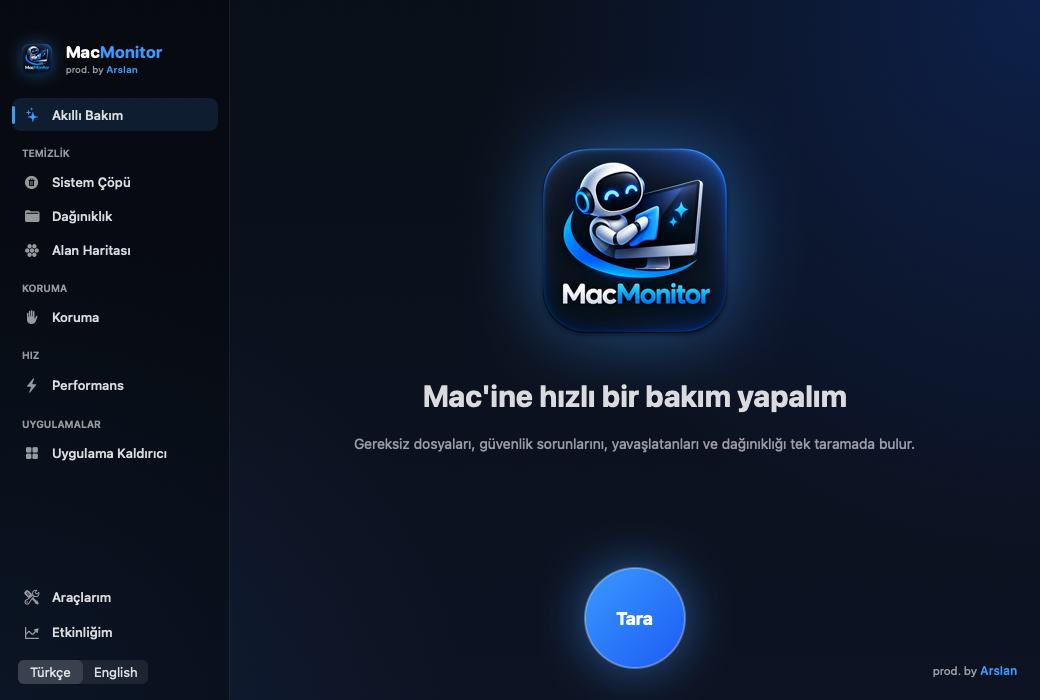
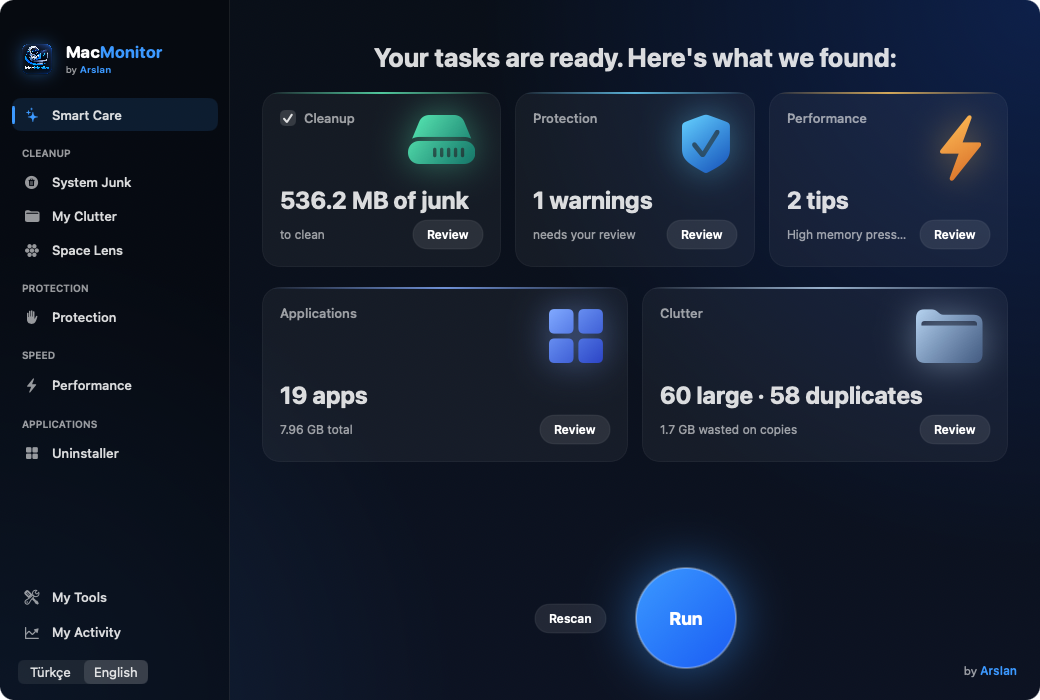
README: English rewrite and new 2.4 screenshots

diff --git a/README.md b/README.md
@@ -1,100 +1,134 @@
 <p align="center">
-  <img src="docs/icon.png" width="160" alt="MacMonitor">
+  <img src="docs/icon.png" width="160" alt="MacMonitor icon">
 </p>
 
 <h1 align="center">MacMonitor</h1>
 
 <p align="center">
-  Menü çubuğunda yaşayan, hafif ve güvenli bir Mac bakım uygulaması.<br>
-  <i>A lightweight, privacy-first Mac care app that lives in your menu bar.</i><br><br>
+  A lightweight, privacy-first Mac care app that lives in your menu bar.<br>
   <b>by Arslan</b>
 </p>
 
 <p align="center">
-  <img src="docs/screenshot.png" width="820" alt="MacMonitor ekran görüntüsü">
+  <img alt="Version 2.4" src="https://img.shields.io/badge/version-2.4-3b82f6">
+  <img alt="macOS 13+" src="https://img.shields.io/badge/macOS-13%2B-111827?logo=apple">
+  <img alt="Apple Silicon and Intel" src="https://img.shields.io/badge/Apple%20Silicon%20%7C%20Intel-supported-10b981">
+  <img alt="No telemetry" src="https://img.shields.io/badge/telemetry-none-10b981">
+</p>
+
+<p align="center">
+  <img src="docs/screenshot.png" width="820" alt="MacMonitor Smart Care results">
 </p>
 
 ---
 
-## Özellikler
+## What's new in 2.4
 
-**Menü çubuğu paneli**
-- Mac sağlığı özeti, CPU / RAM / disk / ağ anlık durumu
-- Her karta tıklayınca ayrıntı: disk dağılımı ve SMART durumu, CPU grafiği, bellek halkası, ağ grafikleri, hız testi, pil (dizüstülerde)
-- En çok RAM ve CPU kullanan uygulamalar, onaylı **Kapat** düğmesi
-- Bugünün önerisi, Bluetooth cihazları ve pil seviyeleri
+- **Project Leftovers.** Finds rebuildable folders in old projects, such as `node_modules`, `venv`, Rust `target` and `.next`, and frees the space safely.
+- **Safety check before every removal.** Every path is verified against a protected list before anything is moved or deleted.
+- **Disk-full forecast.** Uses the last 90 days of disk usage to estimate when your disk will be full.
 
-**Ana pencere**
-| Bölüm | Ne yapar |
+## Features
+
+### Menu bar panel
+
+<img src="docs/screenshots/panel.png" width="300" align="right" alt="MacMonitor menu bar panel">
+
+- Mac health summary with live CPU, memory, disk and network stats
+- Tap any card for details: disk breakdown and SMART status, CPU graph, memory ring, network graphs, speed test, battery on laptops
+- Top memory and CPU consumers, with a **Quit** button that asks before closing
+- Today's recommendation, Bluetooth devices and their battery levels
+- Disk alerts at 80% and 90% full
+
+<br clear="right">
+
+### Main window
+
+| Section | What it does |
 |---|---|
-| Akıllı Bakım | Tek taramada temizlik, koruma, performans, uygulamalar ve dağınıklık özeti |
-| Sistem Çöpü | Uygulama ve tarayıcı önbellekleri, günlükler, 50+ geliştirici önbelleği (npm, pnpm, pip, uv, Cargo, Gradle, Xcode, VS Code…) risk etiketi ve açıklamasıyla, kurulum dosyaları, Mail ekleri, Çöp Kutusu. Öğeler tek tek seçilebilir |
-| Dağınıklık | 100 MB üstü ve 6 aydır açılmamış dosyalar, birebir aynı (kopya) dosyalar |
-| Alan Haritası | Klasörleri boyuta göre gösterir, içine girerek gezinilir |
-| Koruma | SIP, Gatekeeper, FileVault, Güvenlik Duvarı, XProtect; başlangıç öğeleri ve uygulamaların imza kontrolü (kırık/imzasız yazılımları yakalar) |
-| Performans | Bellek ayrıntısı, RAM boşaltma, DNS önbelleği, Spotlight onarımı |
-| Uygulama Kaldırıcı | Uygulamayı Kitaplık'taki artıklarıyla birlikte kaldırır |
-| Araçlarım | **Proje artıkları** (eski projelerdeki node_modules, venv, Rust target, .next…), uygulama artıkları, Time Machine yerel anlık görüntüleri, uygulama izinleri |
-| Etkinliğim | Kalıcı açılan yer ve Çöp Kutusu'na taşınan ayrı ayrı, disk dolma tahmini, öneriler |
+| **Smart Care** | One scan that summarizes cleanup, protection, performance, apps and clutter |
+| **System Junk** | App and browser caches, logs, 50+ developer caches (npm, pnpm, pip, uv, Cargo, Gradle, Xcode, VS Code…) with risk labels and explanations, installers, Mail attachments and the Trash. Each item can be selected on its own |
+| **My Clutter** | Files over 100 MB that haven't been opened in 6 months, and exact duplicate files |
+| **Space Lens** | Shows folders by size, and you can click into them to explore |
+| **Protection** | SIP, Gatekeeper, FileVault, Firewall and XProtect status, plus signature checks for launch items and apps that catch cracked or unsigned software |
+| **Performance** | Memory details, free up RAM, flush DNS cache, repair Spotlight |
+| **Uninstaller** | Removes an app together with its leftovers in Library |
+| **My Tools** | **Project Leftovers**, app leftovers, Time Machine local snapshots, app permissions |
+| **My Activity** | Space freed permanently and space moved to the Trash, disk-full forecast and recommendations |
 
-Disk %80 ve %90 dolduğunda bildirim, son 90 günün doluluğuna göre "disk ~N gün sonra dolar" tahmini.
-Türkçe ve İngilizce arayüz, açılışta otomatik başlatma. Panel kapalıyken sadece menü çubuğundaki değerleri ölçer (~%0,5 işlemci).
+Turkish and English interface, launch at login. When the panel is closed, MacMonitor only measures the values shown in the menu bar, at about 0.5% CPU.
 
-## Güvenlik ve gizlilik
+### Screenshots
 
-MacMonitor bir temizlik uygulamasından beklenmesi gereken en temkinli şekilde çalışır:
+<table>
+  <tr>
+    <td><img src="docs/screenshots/cleanup.png" alt="System Junk"><br><sub><b>System Junk</b> with developer caches and risk labels</sub></td>
+    <td><img src="docs/screenshots/protection.png" alt="Protection"><br><sub><b>Protection</b> with security settings and signature checks</sub></td>
+  </tr>
+  <tr>
+    <td><img src="docs/screenshots/tools.png" alt="My Tools"><br><sub><b>My Tools</b> including Project Leftovers</sub></td>
+    <td><img src="docs/screenshots/performance.png" alt="Performance"><br><sub><b>Performance</b> with memory breakdown and top consumers</sub></td>
+  </tr>
+  <tr>
+    <td colspan="2" align="center"><img src="docs/screenshots/activity.png" width="520" alt="My Activity"><br><sub><b>My Activity</b> with stats and recommendations</sub></td>
+  </tr>
+</table>
 
-- **İnternete veri göndermez.** Telemetri, analitik, hesap yok. Tek ağ bağlantısı, sen **Hız Testi**'ne bastığında macOS'un kendi `networkQuality` aracının Apple sunucularına yaptığı ölçümdür.
-- **Root servisi kurmaz.** Arka planda tam yetkiyle çalışan hiçbir şey yoktur. Yönetici şifresi sadece bakım görevlerinde, macOS'un kendi penceresiyle istenir.
-- **Giriş bilgilerine dokunmaz.** Anahtar Zinciri, `Application Support`, `~/.ssh`, terminal geçmişi, `~/.claude` gibi alanlar temizlik kapsamında değildir.
-- **Kullanıcı dosyaları silinmez, Çöp Kutusu'na taşınır.** Büyük dosyalar, kopyalar, kurulum dosyaları, uygulama artıkları geri alınabilir.
-- **Her silmeden önce güvenlik kontrolü:** kısayollar (symlink), ana klasörler, `.ssh`, `.claude`, anahtar zinciri, Mail, Mesajlar, iCloud, fotoğraf arşivi, `.env` dosyaları ve `.git` reddedilir. Git deposundaki bir klasör ancak `.gitignore`'daysa temizlenir; kaynak koduna dokunulmaz.
-- **Proje artıklarında:** çalışan bir programı olan projeler (bot, sunucu) atlanır; varsayılan olarak sadece 30 günden uzun süredir dokunulmamışlar seçilir, Python ortamları seçilmez.
-- **Ek korumalar:** açık uygulamaların önbelleği atlanır; Apple'ın sistem önbellekleri, Spotify çevrimdışı müzikleri gibi kullanıcı verisi içeren önbellekler korunur; içinde `auth`, `token`, `session`, `login` gibi dosyalar olan klasörler asla "artık" olarak gösterilmez.
-- **Gerçek zamanlı antivirüs değildir.** Koruma bölümü ayarları ve imzaları denetler; virüs imzası taraması için Apple'ın XProtect'i ya da Malwarebytes gibi bir araç kullan.
+## Safety and privacy
 
-## Kurulum
+MacMonitor works as carefully as a cleaning app should:
 
-### Hazır kurulum dosyası (.dmg)
-1. [Releases](../../releases) sayfasından `MacMonitor-x.y.dmg` dosyasını indir.
-2. Aç ve **MacMonitor** simgesini **Uygulamalar** klasörüne sürükle.
-3. İlk açılışta macOS uyarı verir (uygulama Apple'a ücretli geliştirici hesabıyla kayıtlı değildir):
-   **Sistem Ayarları › Gizlilik ve Güvenlik › Yine de Aç**. Bir kez yeterlidir.
+- **It sends no data to the internet.** No telemetry, no analytics, no account. The only network connection is the measurement made by macOS's own `networkQuality` tool against Apple servers when you press **Test Speed**.
+- **It installs no root helper.** Nothing runs in the background with full privileges. The admin password is only requested for maintenance tasks, through the standard macOS prompt.
+- **It never touches credentials.** Keychain, `Application Support`, `~/.ssh`, shell history and `~/.claude` are outside the cleanup scope.
+- **User files go to the Trash, not straight to deletion.** Large files, duplicates, installers and app leftovers can always be restored.
+- **Every removal passes a safety check.** Symlinks, home folders, `.ssh`, `.claude`, Keychain, Mail, Messages, iCloud, photo libraries, `.env` files and `.git` are refused. A folder inside a Git repository is only cleaned if it is listed in `.gitignore`, so source code is never touched.
+- **Project Leftovers is cautious by default.** Projects with a running program, such as a bot or a server, are skipped. Only projects untouched for more than 30 days are selected, and Python environments are not selected.
+- **Extra safeguards.** Caches of open apps are skipped. Apple's system caches and caches with user data, such as Spotify offline music, are protected. Folders containing files like `auth`, `token`, `session` or `login` are never shown as leftovers.
+- **It is not a real-time antivirus.** The Protection section checks settings and signatures. For malware signature scanning, rely on Apple's XProtect or a tool such as Malwarebytes.
 
-Gereksinim: macOS 13 Ventura veya üstü · Apple Silicon ve Intel.
+## Installation
 
-### Kaynaktan derleme
+### Download the .dmg
+1. Download `MacMonitor-x.y.dmg` from the [Releases](../../releases) page.
+2. Open it and drag **MacMonitor** into **Applications**.
+3. On first launch macOS shows a warning, because the app is not registered with a paid Apple Developer account. Go to **System Settings › Privacy & Security › Open Anyway**. You only need to do this once.
+
+Requirements: macOS 13 Ventura or later, Apple Silicon or Intel.
+
+### Build from source
 ```bash
-xcode-select --install          # bir kez: Apple komut satırı araçları
+xcode-select --install          # once: Apple command line tools
 git clone https://github.com/arslanilyasovich/MacMonitor.git
 cd MacMonitor
-./build.sh                      # derler, imzalar, /Applications'a kurar ve açar
-tools/make_dmg.sh               # isteğe bağlı: dist/ içine .dmg üretir
+./build.sh                      # builds, signs, installs to /Applications and launches
+tools/make_dmg.sh               # optional: creates a .dmg in dist/
 ```
-`build.sh` ilk çalıştırmada bu Mac'e özel, yerel bir kod imzalama sertifikası oluşturur (anahtar zincirinde kalır, hiçbir yere gönderilmez). Böylece macOS izinleri her derlemede yeniden sorulmaz.
+On its first run, `build.sh` creates a local code-signing certificate unique to your Mac. It stays in your Keychain and is never sent anywhere. This way macOS doesn't ask for permissions again after every build.
 
-## Proje yapısı
+## Project structure
 ```
-Sources/      SwiftUI uygulaması (modeller ve ekranlar)
-tools/        ikon, .dmg ve imza sertifikası betikleri
+Sources/      SwiftUI app (models and views)
+tools/        icon, .dmg and signing certificate scripts
 assets/       logo
-build.sh      derleme + kurulum
+docs/         README images
+build.sh      build + install
 ```
 
 ---
 
-## English
+## Türkçe
 
-MacMonitor is a menu-bar Mac care app: live CPU / memory / disk / network stats, junk cleanup with 50+ developer caches, project leftovers (node_modules, venv, target), disk-full forecast and alerts, large and duplicate file finder, Space Lens, uninstaller with leftovers, security check (catches cracked/unsigned software), maintenance tasks and Time Machine snapshot cleanup. Turkish and English UI.
+MacMonitor, menü çubuğunda yaşayan hafif ve güvenli bir Mac bakım uygulamasıdır. Anlık CPU, bellek, disk ve ağ durumu, 50'den fazla geliştirici önbelleğiyle çöp temizliği, proje artıkları, disk dolma tahmini, büyük ve kopya dosya bulucu, Alan Haritası, artıklarıyla uygulama kaldırma ve güvenlik kontrolü sunar. Arayüz Türkçe ve İngilizcedir.
 
-**Privacy:** no telemetry, no accounts, no root helper. It never touches your Keychain, `Application Support`, SSH keys or shell history. User files are moved to the Trash, never deleted outright.
+**Gizlilik:** Telemetri, hesap ve root servisi yoktur. Anahtar Zinciri, SSH anahtarları ve terminal geçmişine dokunulmaz. Kullanıcı dosyaları silinmez, Çöp Kutusu'na taşınır.
 
-**Install:** download the `.dmg` from Releases, drag to Applications, then on first launch go to *System Settings › Privacy & Security › Open Anyway*. Or build from source with `./build.sh` (needs `xcode-select --install`).
+**Kurulum:** Releases sayfasından `.dmg` dosyasını indir ve Uygulamalar klasörüne sürükle. İlk açılışta **Sistem Ayarları › Gizlilik ve Güvenlik › Yine de Aç** yolunu izle.
 
 ---
 
-## Lisans
+## License
 
-© 2026 Arslan. **Tüm hakları saklıdır.** Kaynak kod incelenmek için görünürdür; izin alınmadan kopyalanamaz, değiştirilip dağıtılamaz, satılamaz veya başka bir isimle yayınlanamaz. Ayrıntılar: [LICENSE](LICENSE).
+© 2026 Arslan. **All rights reserved.** The source code is visible for review only. It may not be copied, modified, redistributed, sold or published under another name without permission. See [LICENSE](LICENSE) for details.
 
 <p align="center"><sub>Made by <b>Arslan</b></sub></p>
